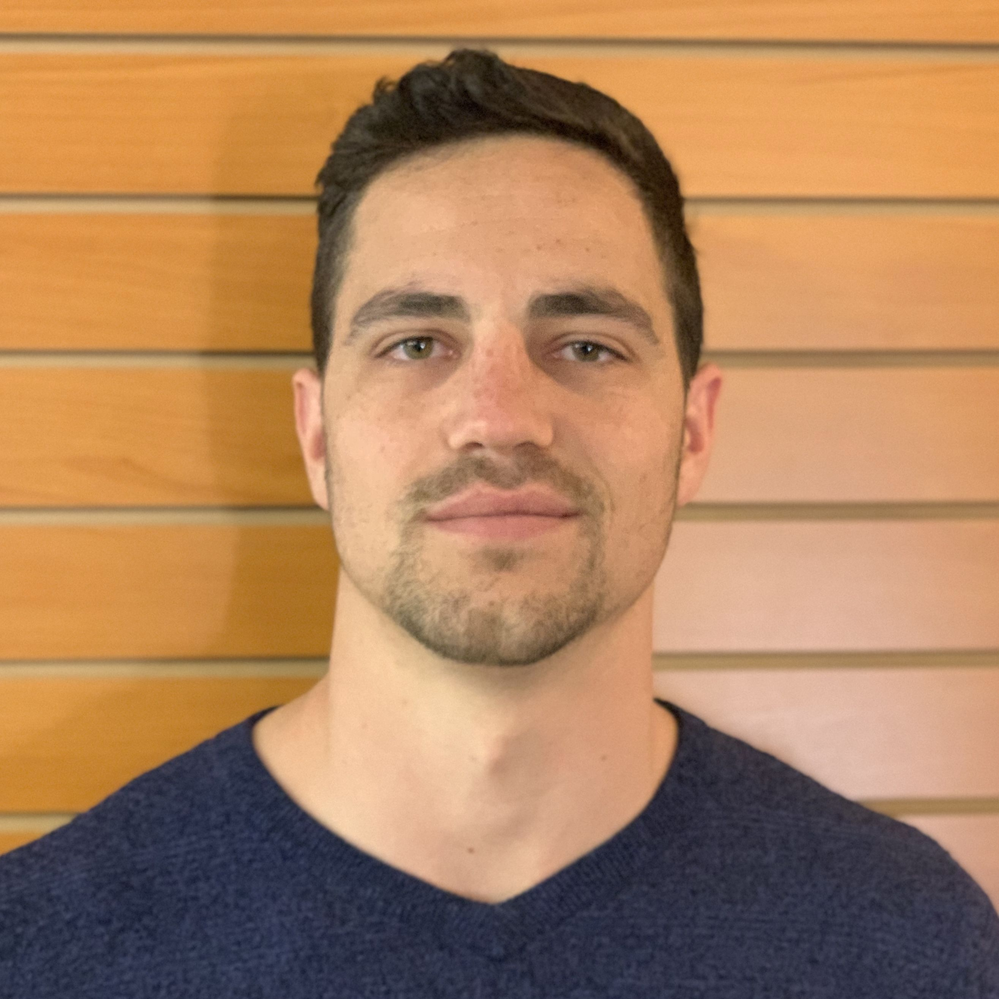
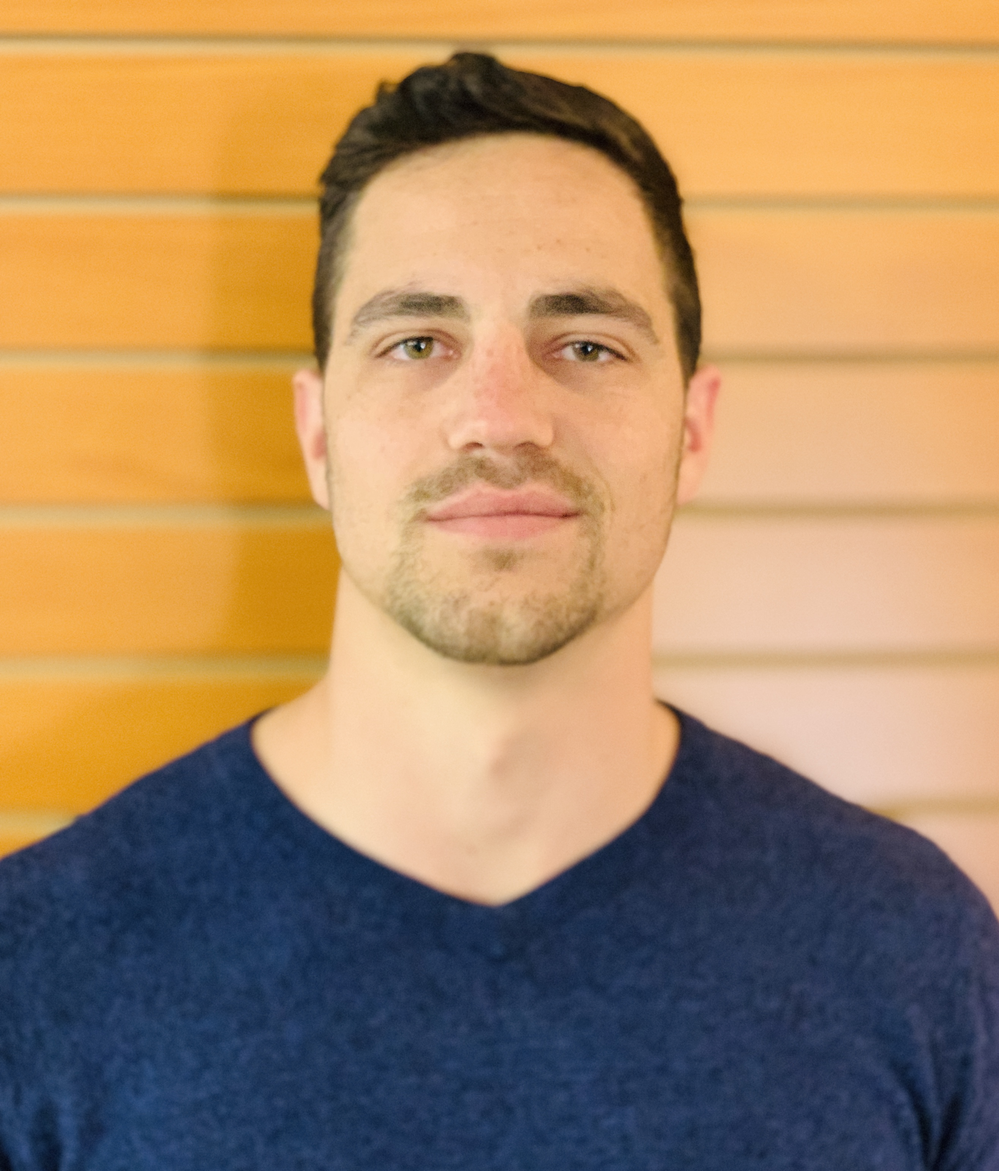
added pix

diff --git a/bdd/jerius.html b/bdd/jerius.html
@@ -28,7 +28,7 @@
 				<div id="spacer" class="body-head-container-img">
 				</div>
 				<div class="body-head-container-img">
-					<img id="profileImg" src="../assets/photos/dan.jpg" alt="profile img" onclick="qr()">
+					<img id="profileImg" src="../assets/photos/jerius.jpg" alt="profile img" onclick="qr()">
 					<img id="qrImg" src="../assets/qr/bdd/jerius-qr.png" alt="QR Code" onclick="closeQr()">
 				</div>
 				<div class="body-head-container-info">

diff --git a/bdd/cam.html b/bdd/cam.html
@@ -28,7 +28,7 @@
 				<div id="spacer" class="body-head-container-img">
 				</div>
 				<div class="body-head-container-img">
-					<img id="profileImg" src="../assets/photos/dan.jpg" alt="profile img" onclick="qr()">
+					<img id="profileImg" src="../assets/photos/cam.jpg" alt="profile img" onclick="qr()">
 					<img id="qrImg" src="../assets/qr/bdd/cam-qr.png" alt="QR Code" onclick="closeQr()">
 				</div>
 				<div class="body-head-container-info">
